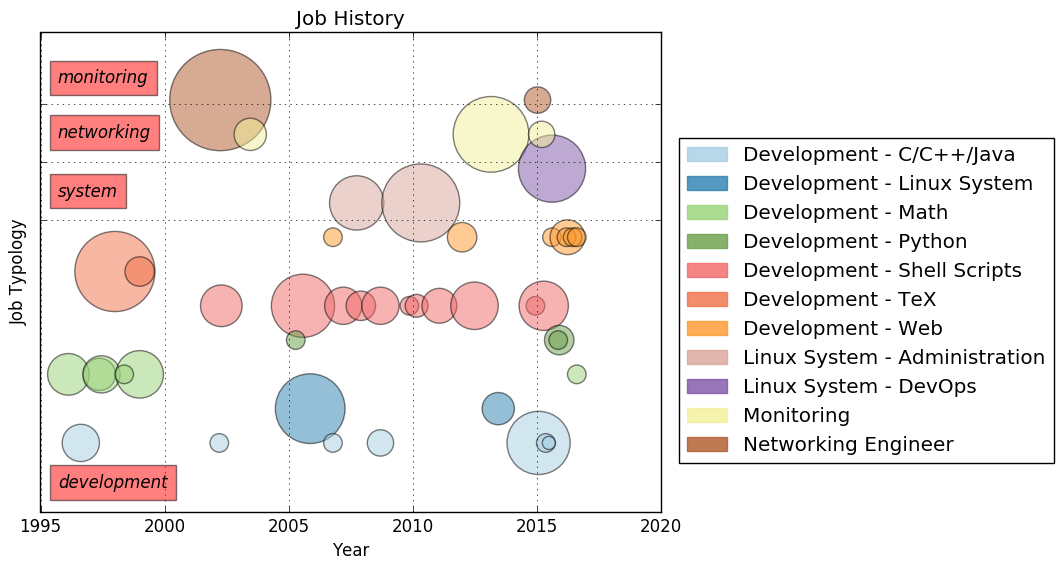
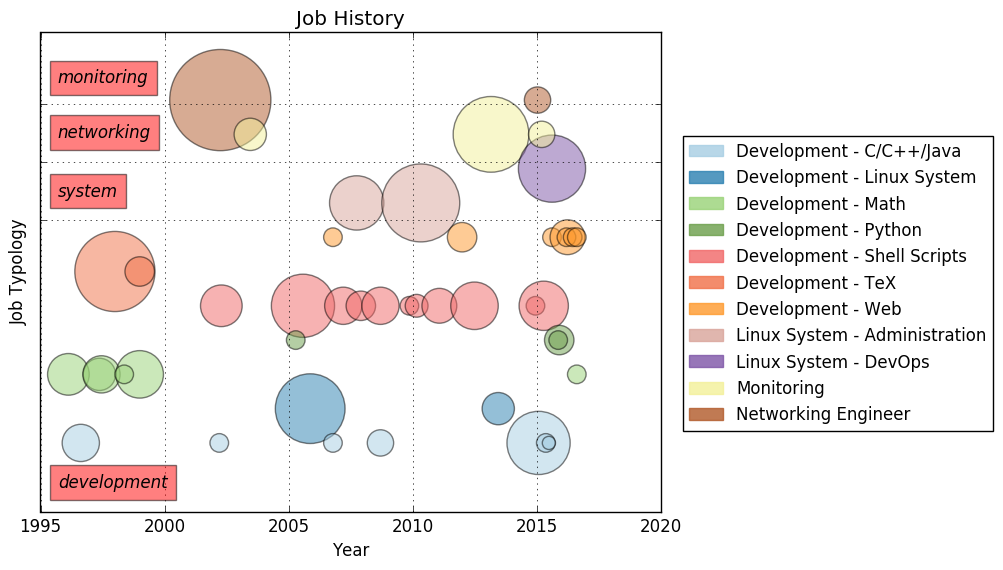
plot-experiences.py: use a small fontsize in the legend

diff --git a/scripts/plot-experiences.py b/scripts/plot-experiences.py
@@ -145,6 +145,7 @@ ax.text(1995.7, 10.5, 'monitoring', style='italic',
 
 # Add a legend
 handles = [mpatches.Patch(color=c(job), label=job, alpha=0.8) for job in job_list]
-lgd = ax.legend(handles, job_list, loc='upper right', bbox_to_anchor=(1.65, 0.8))
+lgd = ax.legend(handles, job_list, loc='upper right', bbox_to_anchor=(1.55, 0.8),
+                prop={'size': 12})
 
 fig.savefig('../images/experiences.png', bbox_extra_artists=(lgd,), bbox_inches='tight')
